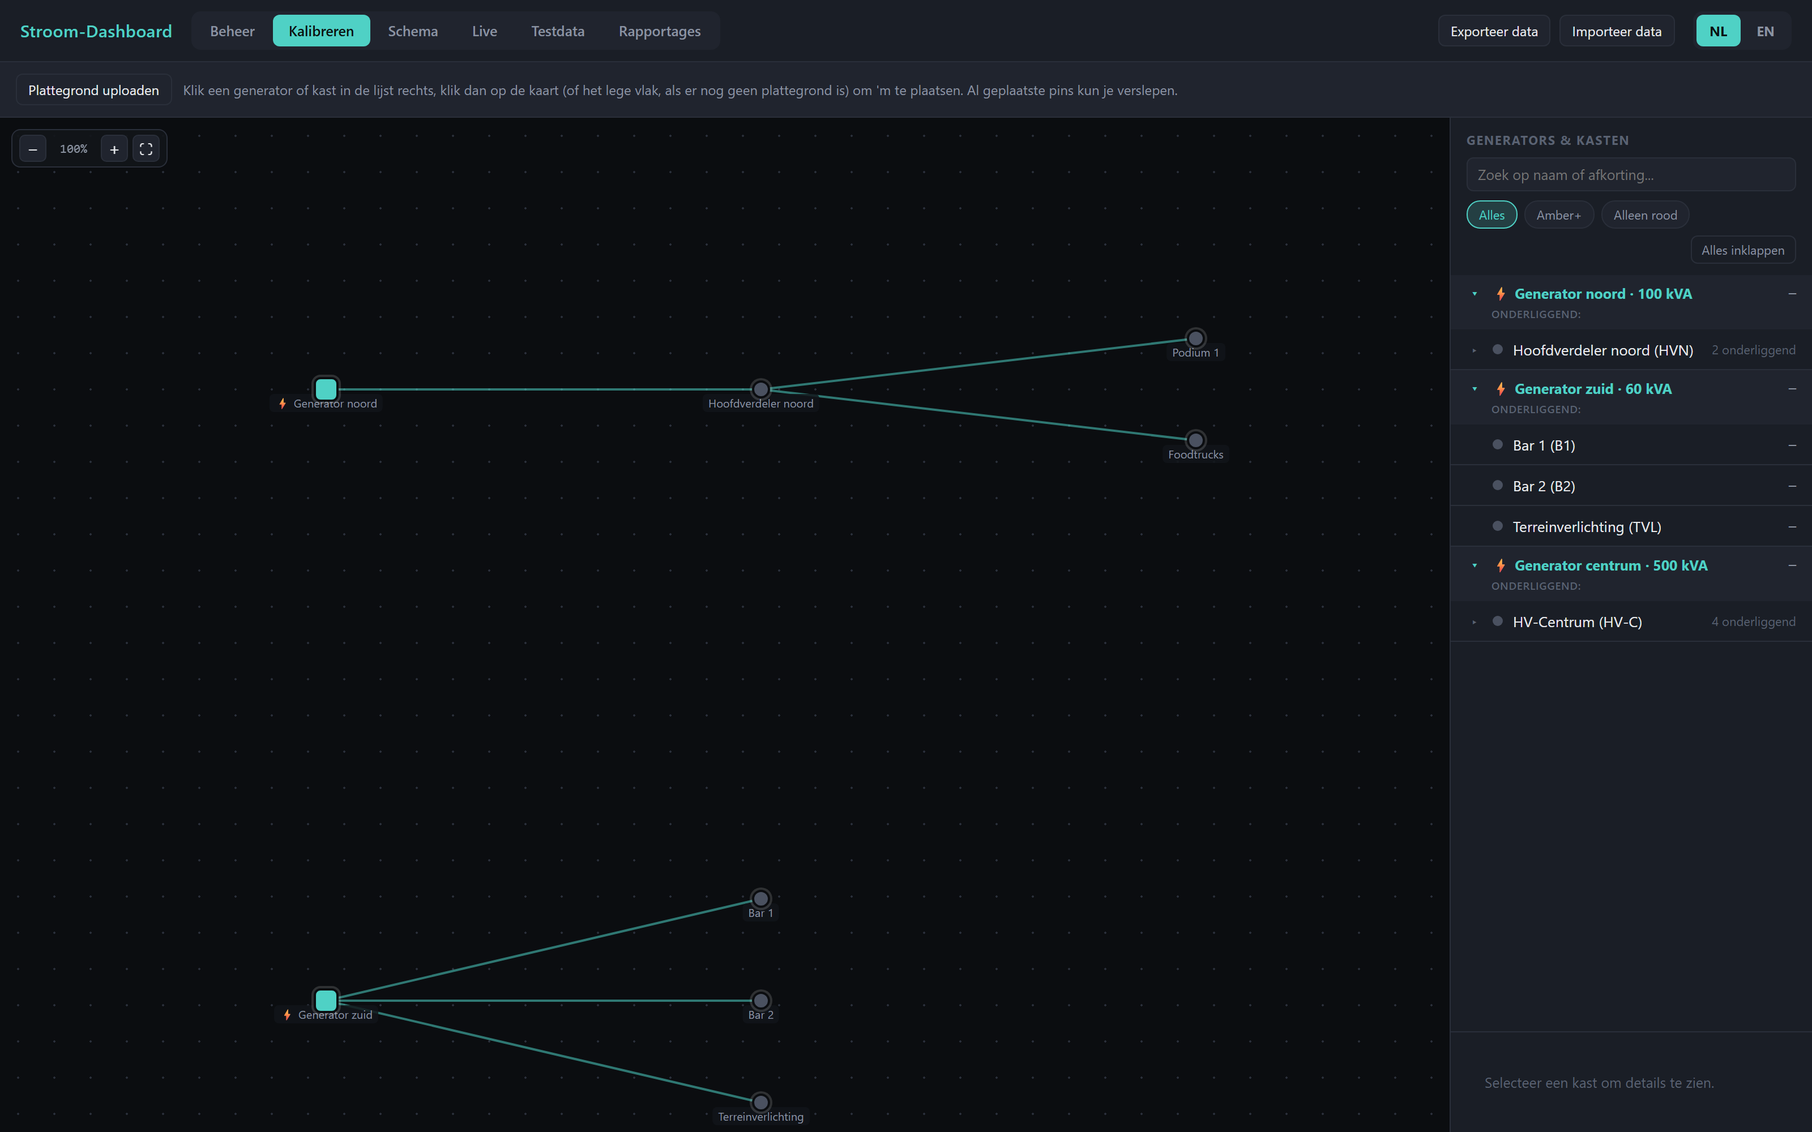
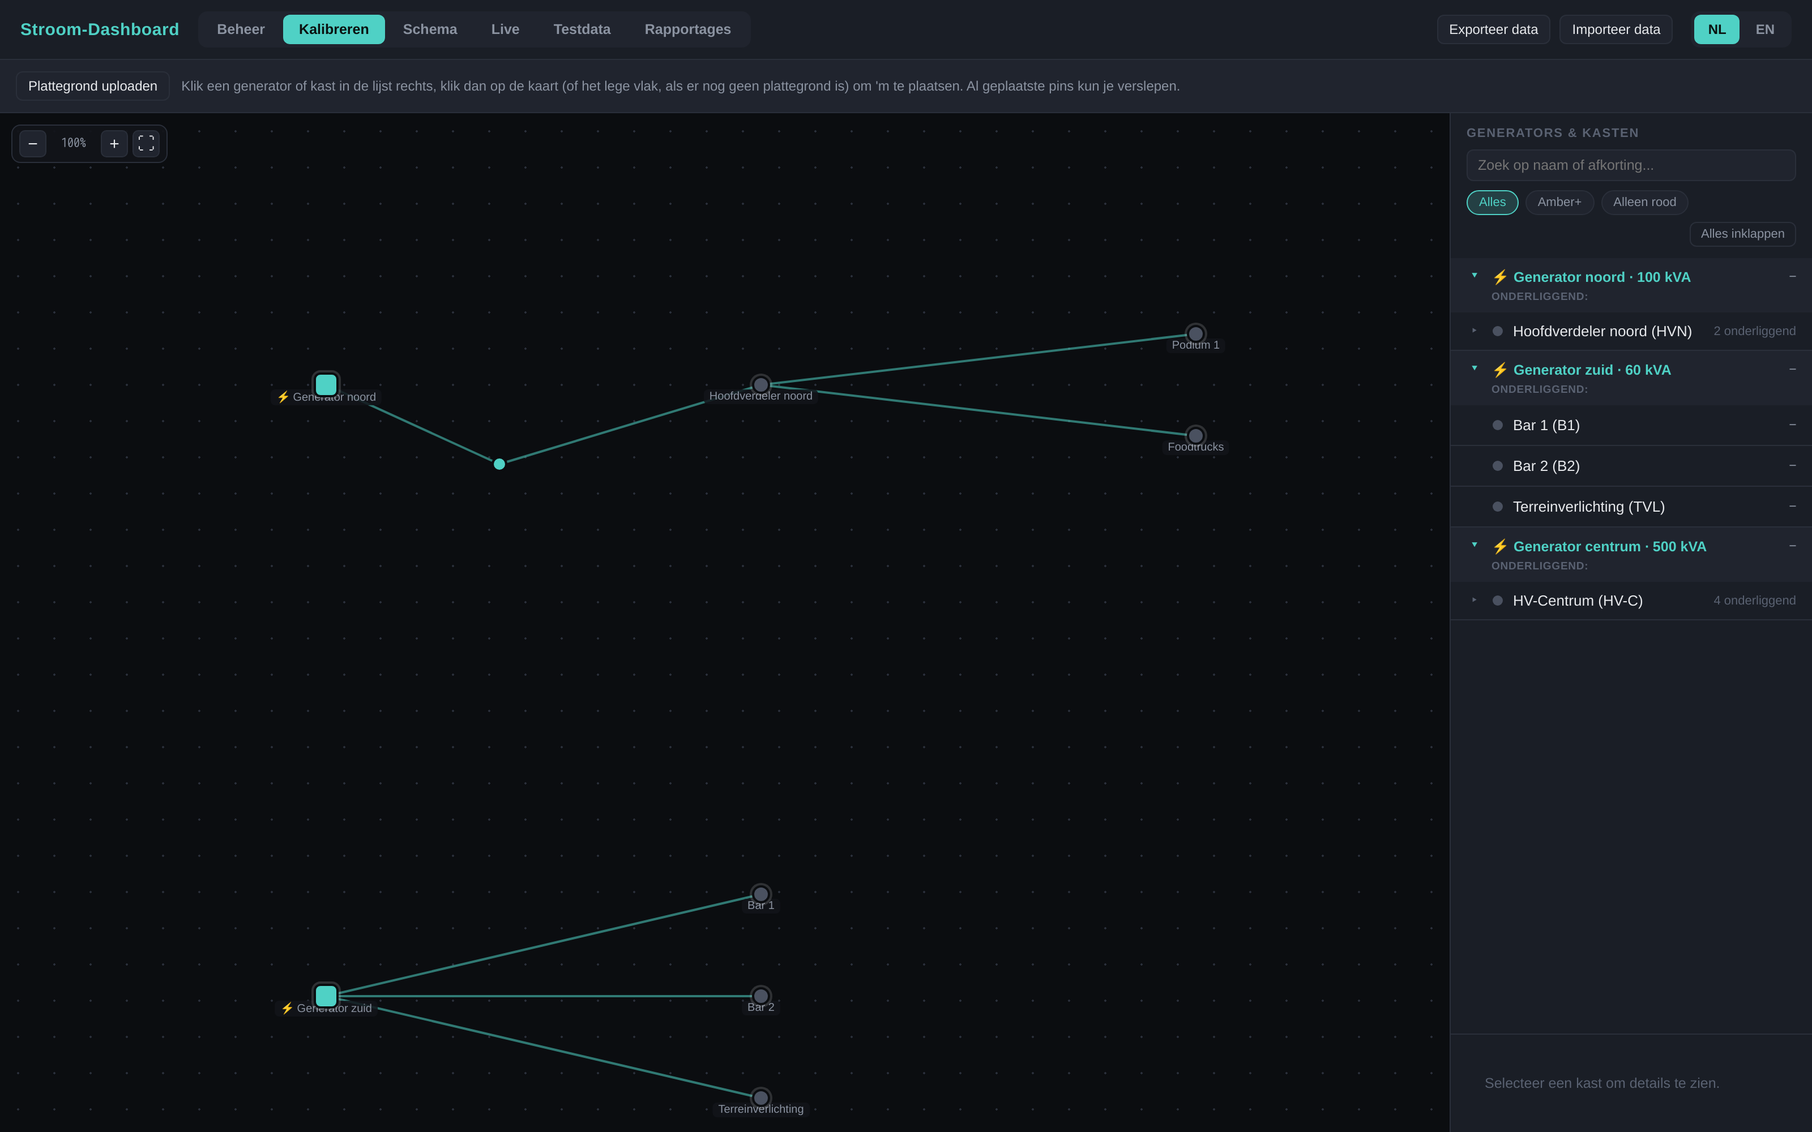
Knikpunten in lijnen tussen kasten en voedingsbron (Kalibreren)
Lijnen zijn niet langer altijd recht: op Kalibreren kan een knikpunt
toegevoegd (dubbelklik op een segment of via het rechtsklik-menu),
versleept (dubbelklik = verwijderen) of de hele lijn teruggezet worden
naar recht (rechtsklik-menu). Op Live volgt de lijn dezelfde route,
read-only. Nieuw endpoint POST /api/topology/knikpunten vervangt
steeds de knikpunten-array van één kast; fitToScreenKaart() neemt
knikpuntcoordinaten mee in zijn bounding-boxberekening.

Bouwt op specs/lijnen-knikpunten-plan.md (Cowork-ontwerp), sluit
GitHub issue #6.

diff --git a/webapp/public/js/render-pins.js b/webapp/public/js/render-pins.js
@@ -1,28 +1,156 @@
 import { state, svg, mapimg, mapinner } from './state.js';
-import { allNodes, isGen, nodeById, getSurfaceEl, statusClass, savePositie, typeIcon } from './topology.js';
+import { allNodes, isGen, nodeById, getSurfaceEl, statusClass, savePositie, saveKnikpunten, typeIcon } from './topology.js';
 import { renderList } from './render-list.js';
 import { renderDetail } from './render-detail.js';
 import { renderKastPopup } from './kastpopup.js';
+import { t } from './i18n.js';
+
+// ---------- rechtsklik-mini-menu (knikpunten toevoegen/resetten) — enige contextmenu-gebruiker in
+// de app, dus geen apart module nodig; sluit op klik erbuiten of Escape ----------
+let openCtxMenu = null;
+function closeCtxMenu(){
+  if(!openCtxMenu) return;
+  openCtxMenu.remove(); openCtxMenu = null;
+  document.removeEventListener('mousedown', onDocMouseDownForCtx, true);
+  document.removeEventListener('keydown', onDocKeydownForCtx, true);
+}
+function onDocMouseDownForCtx(ev){ if(openCtxMenu && !openCtxMenu.contains(ev.target)) closeCtxMenu(); }
+function onDocKeydownForCtx(ev){ if(ev.key==='Escape') closeCtxMenu(); }
+function showCtxMenu(clientX, clientY, items){
+  closeCtxMenu();
+  const menu = document.createElement('div');
+  menu.className = 'ctxmenu';
+  items.forEach(it=>{
+    const row = document.createElement('div');
+    row.className = 'item' + (it.danger ? ' danger' : '');
+    row.textContent = it.label;
+    row.onclick = ()=>{ closeCtxMenu(); it.onClick(); };
+    menu.appendChild(row);
+  });
+  document.body.appendChild(menu);
+  menu.style.left = clientX + 'px';
+  menu.style.top = clientY + 'px';
+  openCtxMenu = menu;
+  // pas volgende tick meeluisteren, anders sluit de rightclick die het menu opent 'm meteen weer
+  setTimeout(()=>{
+    document.addEventListener('mousedown', onDocMouseDownForCtx, true);
+    document.addEventListener('keydown', onDocKeydownForCtx, true);
+  }, 0);
+}
+
+// ---------- knikpunten-datamutaties: telkens de hele array vervangen + opslaan + herrenderen,
+// zelfde "muteer het TOPO-object direct, sla op, render opnieuw"-patroon als savePositie() ----------
+function insertKnikpunt(k, segIdx, x_pct, y_pct){
+  const knikpunten = (k.knikpunten || []).slice();
+  knikpunten.splice(segIdx, 0, {x_pct, y_pct});
+  k.knikpunten = knikpunten;
+  saveKnikpunten(k);
+  renderPins();
+}
+function verwijderKnikpunt(k, idx){
+  const knikpunten = (k.knikpunten || []).slice();
+  knikpunten.splice(idx, 1);
+  k.knikpunten = knikpunten;
+  saveKnikpunten(k);
+  renderPins();
+}
+function resetLijn(k){
+  k.knikpunten = [];
+  saveKnikpunten(k);
+  renderPins();
+}
 
 export function renderPins(){
-  mapinner.querySelectorAll('.pin,.pinlabel').forEach(e=>e.remove());
+  mapinner.querySelectorAll('.pin,.pinlabel,.knik').forEach(e=>e.remove());
   const surface = getSurfaceEl();
   const w = surface.clientWidth, h = surface.clientHeight;
   if(!w || !h) return;
   svg.setAttribute('width', w); svg.setAttribute('height', h);
   svg.innerHTML = '';
 
+  // alleen op Kalibreren bewerkbaar (handles, hover, dubbelklik/rechtsklik) — op Live volgt de
+  // lijn dezelfde route, maar puur ter weergave, geen bewerkinteractie
+  const bewerkbaar = state.mode === 'cal';
+
   state.TOPO.kasten.forEach(k=>{
     const from = k.parent ? nodeById(k.parent) : nodeById(k.generator);
     if(!from || !from.positie || from.positie.x_pct==null || !k.positie || k.positie.x_pct==null) return;
-    const line = document.createElementNS('http://www.w3.org/2000/svg','line');
-    line.setAttribute('x1', from.positie.x_pct/100*w);
-    line.setAttribute('y1', from.positie.y_pct/100*h);
-    line.setAttribute('x2', k.positie.x_pct/100*w);
-    line.setAttribute('y2', k.positie.y_pct/100*h);
-    line.setAttribute('stroke', 'rgba(79,209,197,0.55)');
-    line.setAttribute('stroke-width', '2');
-    svg.appendChild(line);
+    const knikpunten = k.knikpunten || [];
+    const points = [from.positie, ...knikpunten, k.positie];
+
+    for(let i=0; i<points.length-1; i++){
+      const p1 = points[i], p2 = points[i+1];
+      const line = document.createElementNS('http://www.w3.org/2000/svg','line');
+      line.setAttribute('x1', p1.x_pct/100*w);
+      line.setAttribute('y1', p1.y_pct/100*h);
+      line.setAttribute('x2', p2.x_pct/100*w);
+      line.setAttribute('y2', p2.y_pct/100*h);
+      line.setAttribute('class', 'edgeline' + (bewerkbaar ? ' hoverable' : ''));
+      if(bewerkbaar){
+        const segIdx = i; // knikpunten[segIdx] = nieuw punt, splitst dit segment in tweeën
+        // voorkomt dat mapwrap's pan-drag start (die luistert op elke mousedown, ook rechtsklik)
+        line.onmousedown = (ev)=> ev.stopPropagation();
+        line.ondblclick = (ev)=>{
+          ev.stopPropagation();
+          const rect = getSurfaceEl().getBoundingClientRect();
+          const x = Math.max(0,Math.min(100, ((ev.clientX-rect.left)/rect.width)*100));
+          const y = Math.max(0,Math.min(100, ((ev.clientY-rect.top)/rect.height)*100));
+          insertKnikpunt(k, segIdx, x, y);
+        };
+        line.oncontextmenu = (ev)=>{
+          ev.preventDefault(); ev.stopPropagation();
+          const rect = getSurfaceEl().getBoundingClientRect();
+          const x = Math.max(0,Math.min(100, ((ev.clientX-rect.left)/rect.width)*100));
+          const y = Math.max(0,Math.min(100, ((ev.clientY-rect.top)/rect.height)*100));
+          showCtxMenu(ev.clientX, ev.clientY, [
+            { label: t('knikpunt.invoegen'), onClick: ()=>insertKnikpunt(k, segIdx, x, y) },
+            { label: t('knikpunt.rechtzetten'), danger:true, onClick: ()=>resetLijn(k) },
+          ]);
+        };
+      }
+      svg.appendChild(line);
+    }
+
+    if(bewerkbaar){
+      knikpunten.forEach((p, idx)=>{
+        const knik = document.createElement('div');
+        knik.className = 'knik';
+        knik.style.left = (p.x_pct/100*w)+'px';
+        knik.style.top = (p.y_pct/100*h)+'px';
+        knik.title = t('knikpunt.sleepTitel');
+        knik.onmousedown = (ev)=>{
+          ev.stopPropagation();
+          // alleen bij daadwerkelijke sleepbeweging opslaan+herrenderen — een kale klik (het begin
+          // van een dubbelklik) mag de knik-div niet vervangen, anders ziet de browser de tweede
+          // klik van de dubbelklik als een klik op een ander element en vuurt 'dblclick' nooit
+          let moved = false;
+          const move = (mv)=>{
+            moved = true;
+            const rect = getSurfaceEl().getBoundingClientRect();
+            let x = ((mv.clientX-rect.left)/rect.width)*100;
+            let y = ((mv.clientY-rect.top)/rect.height)*100;
+            x = Math.max(0,Math.min(100,x)); y = Math.max(0,Math.min(100,y));
+            p.x_pct = x; p.y_pct = y;
+            knik.style.left = (x/100*w)+'px'; knik.style.top = (y/100*h)+'px';
+          };
+          const up = ()=>{
+            document.removeEventListener('mousemove', move);
+            document.removeEventListener('mouseup', up);
+            if(moved){ saveKnikpunten(k); renderPins(); }
+          };
+          document.addEventListener('mousemove', move);
+          document.addEventListener('mouseup', up);
+        };
+        knik.ondblclick = (ev)=>{ ev.stopPropagation(); verwijderKnikpunt(k, idx); };
+        knik.oncontextmenu = (ev)=>{
+          ev.preventDefault(); ev.stopPropagation();
+          showCtxMenu(ev.clientX, ev.clientY, [
+            { label: t('knikpunt.rechtzetten'), danger:true, onClick: ()=>resetLijn(k) },
+          ]);
+        };
+        mapinner.appendChild(knik);
+      });
+    }
   });
 
   allNodes().forEach(n=>{
@@ -71,7 +199,8 @@ export function renderPins(){
 }
 
 mapinner.addEventListener('click', (ev)=>{
-  if(ev.target.classList.contains('pin') || ev.target.closest('.kastpopup')) return;
+  if(ev.target.classList.contains('pin') || ev.target.classList.contains('knik') ||
+     ev.target.classList.contains('edgeline') || ev.target.closest('.kastpopup')) return;
   if(state.mode==='live' && state.openPopupKastId){ state.openPopupKastId = null; renderKastPopup(); }
   if(state.mode!=='cal' || !state.armedId) return;
   const rect = getSurfaceEl().getBoundingClientRect();

diff --git a/webapp/public/css/style.css b/webapp/public/css/style.css
@@ -72,6 +72,24 @@ header h1 span{color:var(--accent)}
 .pinlabel{position:absolute;transform:translate(-50%,4px);top:100%;font-size:10px;color:var(--text2);
           background:rgba(18,21,26,.85);padding:1px 5px;border-radius:4px;white-space:nowrap;pointer-events:none;z-index:4}
 
+/* lijnsegmenten kast<->voedingsbron (evt. met knikpunten ertussen) — .hoverable alleen op
+   Kalibreren, zie render-pins.js; op Live blijft de kale .edgeline-stijl (geen hover/klik) */
+.edgeline{stroke:rgba(79,209,197,.55);stroke-width:2}
+.edgeline.hoverable{pointer-events:stroke;cursor:pointer}
+.edgeline.hoverable:hover{stroke:var(--accent);stroke-width:3}
+.knik{position:absolute;width:14px;height:14px;border-radius:50%;background:var(--accent);
+      border:2px solid #0b0d10;transform:translate(-50%,-50%);cursor:grab;z-index:6}
+.knik:hover{box-shadow:0 0 0 4px var(--accent-dim)}
+
+/* rechtsklik-mini-menu, momenteel alleen gebruikt door de knikpunten-lijninteractie op Kalibreren
+   (zie render-pins.js) — position:fixed + clientX/clientY zodat 'm los staat van mapwrap's eigen
+   scroll/zoom-transform */
+.ctxmenu{position:fixed;background:var(--panel);border:1px solid var(--border);border-radius:8px;
+  box-shadow:0 8px 24px rgba(0,0,0,.4);padding:4px;font-size:12.5px;min-width:190px;z-index:50}
+.ctxmenu .item{padding:8px 10px;border-radius:5px;cursor:pointer;color:var(--text)}
+.ctxmenu .item:hover{background:var(--panel2);color:var(--accent)}
+.ctxmenu .item.danger:hover{color:var(--red)}
+
 .kastpopup{position:absolute;z-index:30;width:270px;background:var(--panel);border:1px solid var(--border);
   border-radius:10px;box-shadow:0 10px 28px rgba(0,0,0,.45);padding:12px 14px;font-size:12px;
   transform:translate(-50%,calc(-100% - 14px))}

diff --git a/webapp/server.js b/webapp/server.js
@@ -238,6 +238,24 @@ app.post('/api/topology/positie', (req, res) => {
   res.json({ ok: true, node });
 });
 
+// ---------- knikpunten bijwerken (bochten in de lijn kast<->voedingsbron, kalibratiemodus) ----------
+// vervangt steeds de hele array in één keer (toevoegen/verslepen/verwijderen/resetten lopen allemaal
+// via dit ene endpoint) — alleen kasten hebben een inkomende lijn, generators niet, dus geen lookup
+// in data.generators zoals bij /positie hierboven.
+app.post('/api/topology/knikpunten', (req, res) => {
+  const { id, knikpunten } = req.body || {};
+  if (!id || !Array.isArray(knikpunten)) return res.status(400).json({ error: 'id en knikpunten (array) zijn verplicht' });
+  if (!knikpunten.every(p => p && typeof p.x_pct === 'number' && typeof p.y_pct === 'number')) {
+    return res.status(400).json({ error: 'elk knikpunt moet x_pct en y_pct (getallen) hebben' });
+  }
+  const data = readTopo();
+  const kast = data.kasten.find(k => k.id === id);
+  if (!kast) return res.status(404).json({ error: 'onbekende kast-id: ' + id });
+  kast.knikpunten = knikpunten;
+  writeTopo(data);
+  res.json({ ok: true, kast });
+});
+
 // ---------- generators beheren ----------
 // een generator-node is normaal gesproken één aggregaat ('generator') of accu ('batterij'), maar kan ook
 // een 'groep' zijn: één logische krachtbron die intern uit meerdere generators/accu's bestaat (bijv. een

diff --git a/webapp/public/js/zoom.js b/webapp/public/js/zoom.js
@@ -95,12 +95,17 @@ export function fitToScreenKaart(){
   if(availW <= 0 || availH <= 0) return;
 
   const geplaatst = allNodes().filter(n => n.positie && n.positie.x_pct != null);
+  // knikpuntcoördinaten meenemen in de bounding box — een bocht die ver van de rechte lijn tussen
+  // twee nodes afligt, mag "fit to screen" niet buiten beeld laten vallen
+  const knikpunten = state.TOPO.kasten.flatMap(k => k.knikpunten || []);
   let minX = 0, maxX = 100, minY = 0, maxY = 100;
   if(geplaatst.length){
-    minX = Math.min(...geplaatst.map(n => n.positie.x_pct));
-    maxX = Math.max(...geplaatst.map(n => n.positie.x_pct));
-    minY = Math.min(...geplaatst.map(n => n.positie.y_pct));
-    maxY = Math.max(...geplaatst.map(n => n.positie.y_pct));
+    const xs = geplaatst.map(n => n.positie.x_pct).concat(knikpunten.map(p => p.x_pct));
+    const ys = geplaatst.map(n => n.positie.y_pct).concat(knikpunten.map(p => p.y_pct));
+    minX = Math.min(...xs);
+    maxX = Math.max(...xs);
+    minY = Math.min(...ys);
+    maxY = Math.max(...ys);
     const PAD = 4;
     minX = Math.max(0, minX - PAD); maxX = Math.min(100, maxX + PAD);
     minY = Math.max(0, minY - PAD); maxY = Math.min(100, maxY + PAD + 3); // iets extra onder voor het pin-label

diff --git a/webapp/public/js/topology.js b/webapp/public/js/topology.js
@@ -30,6 +30,13 @@ export async function savePositie(node){
   });
 }
 
+export async function saveKnikpunten(kast){
+  await fetch('/api/topology/knikpunten', {
+    method:'POST', headers:{'Content-Type':'application/json'},
+    body: JSON.stringify({ id: kast.id, knikpunten: kast.knikpunten || [] })
+  });
+}
+
 export function loadMap(){
   const img = new Image();
   img.onload = ()=>{

diff --git a/roadmap_v3.md b/roadmap_v3.md
@@ -12,15 +12,17 @@ werkafspraak (spec/plan eerst, dan pas bouwen — zie "Overige afspraken" in
 
 - [ ] **Per-fase fout-/vlagindicatoren + neutrale stroom** (`a_errors`/`a_flags`/`b_*`/`c_*`/
       `n_current`/`n_errors`/component-brede `errors`) — uit de Shelly-audit. Waardevol (directe
-      device-eigen overvoltage/overcurrent/overpower/bekabelingsfout-detectie), maar eerst moet
-      geverifieerd worden of Telegraf's standaard JSON-parser deze array-velden momenteel al dan
-      niet stilzwijgend laat vallen. Hangt bovendien samen met het nog openstaande
-      "Notificatiekanaal voor alerting"-item hierboven — niet in isolatie oppakken. Korte spec
-      (geen mockup, backend-first): zie
+      device-eigen overvoltage/overcurrent/overpower/bekabelingsfout-detectie). **Telegraf-
+      verificatie afgerond (24 juli 2026)**: bevestigd dat de array-velden stilzwijgend verdwijnen
+      met de huidige `json`-parser-config — een `json_v2`-parser-wissel + een omzetting naar
+      losse boolean-/string-velden is nodig (InfluxDB kent geen array-veldtype). Hangt bovendien
+      samen met het nog openstaande "Notificatiekanaal voor alerting"-item hierboven — niet in
+      isolatie oppakken. Korte spec (geen mockup, backend-first): zie
       [specs/backend-only-specs.md](specs/backend-only-specs.md), sectie 1.
 - [ ] **`EMData`-component-brede `errors`** (`database_error`/`ct_type_not_set`) — zelfde
-      array-kanttekening als hierboven, device-zelfdiagnose, lage prioriteit. Korte spec:
-      [specs/backend-only-specs.md](specs/backend-only-specs.md), sectie 2.
+      array-kanttekening als hierboven, ook geverifieerd (zelfde bevinding), device-zelfdiagnose,
+      lage prioriteit. Korte spec: [specs/backend-only-specs.md](specs/backend-only-specs.md),
+      sectie 2.
 - [ ] **Interval-aggregaten** (`EMData.GetRecords`/`GetData`/`GetNetEnergies`: min/max/gemiddelde
       per fase, reactief vermogen) — komen niet binnen via de huidige MQTT-architectuur, vereisen
       een fundamenteel andere ophaalmethode (HTTP-polling of een Shelly Script). Alleen oppakken bij
@@ -36,19 +38,20 @@ werkafspraak (spec/plan eerst, dan pas bouwen — zie "Overige afspraken" in
       sectie van het PDF-rapport ook echt gevuld worden i.p.v. de huidige placeholder-pagina. Hangt
       ook samen met het uitgestelde "per-fase fout-/vlagindicatoren"-punt hierboven. Spec + mockup:
       zie [specs/notificatiekanaal-plan.md](specs/notificatiekanaal-plan.md).
-- [ ] **Lijnen tussen kasten aanpasbaar (bochten/knikpunten).** Op Kalibreren/Live is de lijn tussen
-      een kast en zijn voedingsbron nu een rechte lijn tussen de twee pin-posities; in het echt loopt
-      een stroomkabel vaak niet recht (obstakels, paden, kabelgoten, hoeken om een gebouw). Wens:
-      knikpunten kunnen toevoegen/verslepen zodat de lijn de daadwerkelijke kabelroute volgt op de
-      plattegrond. Raakt alleen Kalibreren/Live — niet Schema, dat is een los auto-gegenereerd
-      boomdiagram zonder fysieke plaatsing. Cowork-voorstel uitgewerkt: zie
-      [specs/lijnen-knikpunten-plan.md](specs/lijnen-knikpunten-plan.md).
+- [x] **Lijnen tussen kasten aanpasbaar (bochten/knikpunten).** Afgerond — gebouwd conform
+      [specs/lijnen-knikpunten-plan.md](specs/lijnen-knikpunten-plan.md): op Kalibreren een
+      knikpunt toevoegen (dubbelklik op een lijnsegment of via het rechtsklik-menu), verslepen,
+      verwijderen (dubbelklik op het knikpunt) of de hele lijn resetten (rechtsklik-menu). Op Live
+      volgt de lijn dezelfde route, read-only. Zie event_dashboard.md, Kalibreren-tabblad.
 - [ ] **Automatische back-up** (lokaal en/of naar een externe server) — vult de bestaande handmatige
       Back-up-subtab aan met een geplande, onbeheerde variant. Spec + mockup: zie
       [specs/automatische-backup-plan.md](specs/automatische-backup-plan.md).
 - [ ] **Toegang van buitenaf (HQ meekijken).** Diagnose afgerond en besluiten met Mike bevestigd
-      (losse accounts per persoon, HQ-pagina in een bestaande instance, handmatige locatielijst) —
-      mockups (login-scherm, HQ-locatiesoverzicht) staan klaar, wachten op akkoord. Zie
+      (losse accounts per persoon, HQ-pagina in een bestaande instance, handmatige locatielijst).
+      Volledig uitgewerkt: drie mockups (login-scherm, HQ-locatiesoverzicht, en het eerder
+      ontbrekende accounts-beheerscherm) plus een technisch-fundament-sectie met de functionele
+      eisen voor Code (accounts-opslag, wachtwoord-hashing, sessiemechanisme, HQ-status-ophaal).
+      Wacht nog op jouw akkoord op de mockups vóór het naar Code gaat. Zie
       [specs/toegang-van-buitenaf-diagnose.md](specs/toegang-van-buitenaf-diagnose.md).
 - [ ] **Vinkje "meetdata beschikbaar" per generator/lid.** Sommige generators hebben geen sensors, of
       (nog) geen toegang om er een Shelly aan te hangen — nu blijkt dat alleen impliciet uit een leeg
@@ -56,6 +59,11 @@ werkafspraak (spec/plan eerst, dan pas bouwen — zie "Overige afspraken" in
       herkenbaar "geen sensor"-label op de plekken die nu gewoon niets tonen (Live-zijlijst,
       aside-detail, schema) i.p.v. stil weglaten — zie
       [specs/generator-meetdata-vinkje-plan.md](specs/generator-meetdata-vinkje-plan.md).
+- [ ] **Grafieken-tabblad (vrije ad-hoc analyse).** Nieuw zesde hoofdtabblad in de mode-switch,
+      naast Beheer/Kalibreren/Schema/Live/Rapportages: zelf kasten/generators, metric (stroom/
+      spanning/vermogen/energie), fase en periode/editie selecteren en in een tijdreeksgrafiek
+      zetten, zonder naar Grafana te hoeven wisselen voor een snelle ad-hoc vraag. Spec + mockup:
+      zie [specs/grafieken-tabblad-plan.md](specs/grafieken-tabblad-plan.md).
 
 ## Ideeën van Claude (ongefilterd, nog niet besproken/geprioriteerd met Mike)
 

diff --git a/event_dashboard.md b/event_dashboard.md
@@ -88,9 +88,16 @@ zetten zonder code aan te passen.
   (4800×3000) als er nog geen kaart is — de posities blijven gewoon staan zodra je er later een
   toevoegt
 - Generators en kasten als pins plaatsen en verslepen
-- Lijnen tussen kasten en hun voedingsbron, afgeleid uit de parent/child-koppeling
+- Lijnen tussen kasten en hun voedingsbron, afgeleid uit de parent/child-koppeling. Standaard een
+  rechte lijn, maar met knikpunten aan te passen aan de daadwerkelijke kabelroute (obstakels,
+  paden, hoeken om een gebouw): dubbelklik op een lijnsegment voegt een knikpunt toe op die
+  positie, slepen verplaatst het, dubbelklik op een knikpunt verwijdert het weer. Rechtsklik op een
+  lijn of knikpunt opent een mini-menu ("Knikpunt hier invoegen" / "Rechte lijn terugzetten") als
+  alternatief voor dubbelklikken. Alleen bewerkbaar op Kalibreren; op Live volgt de lijn dezelfde
+  route, puur ter weergave, zonder handles
 - In-/uitzoomen (knoppen of scrollwiel) en pannen (klikken en slepen), met een "fit to screen"-knop
-  die alles in één keer in beeld brengt — handig bij een grote topologie
+  die alles in één keer in beeld brengt (incl. eventuele knikpunten) — handig bij een grote
+  topologie
 
 **Schema-tabblad**
 - Automatisch gegenereerd stroomschema (boomdiagram) van de volledige parent/child-keten, generator

diff --git a/README.md b/README.md
@@ -9,7 +9,8 @@ en [roadmap.md](roadmap.md) (afgeronde en geplande versies, ideeën).
 **Beheer** — topologie invoeren: generators, kasten, koppelingen, systeeminstellingen.
 ![Beheer](screenshots/01-beheer.png)
 
-**Kalibreren** — generators en kasten als pins op de plattegrond plaatsen.
+**Kalibreren** — generators en kasten als pins op de plattegrond plaatsen; lijnen naar de
+voedingsbron zijn met knikpunten aan te passen aan de daadwerkelijke kabelroute.
 ![Kalibreren](screenshots/02-kalibreren.png)
 
 **Schema** — automatisch gegenereerd stroomschema van de volledige generator→kast-keten.
